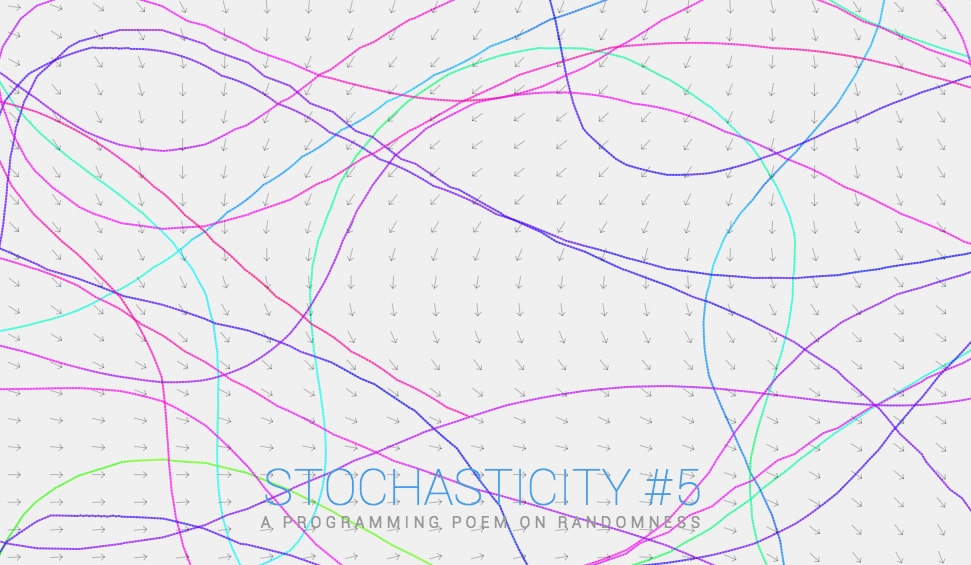
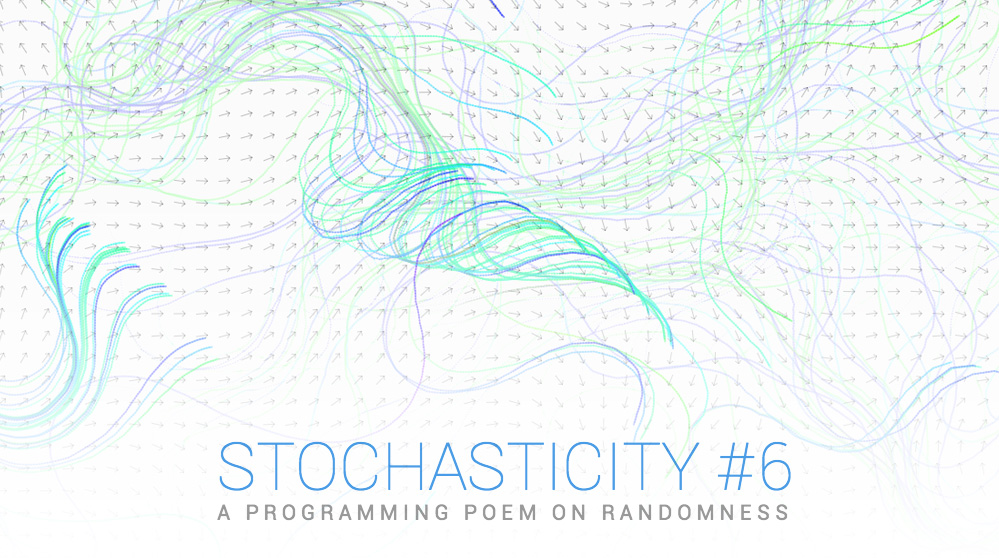
Wrap up for production

diff --git a/index.html b/index.html
@@ -1,7 +1,7 @@
 <!DOCTYPE html>
 <html>
 	<head>
-		<title>Stochasticity #5 - A programming poem on randomness</title>
+		<title>Stochasticity #6 - A programming poem on randomness</title>
 
 		<link href='http://fonts.googleapis.com/css?family=Roboto:400,500,700,300,100' rel='stylesheet' type='text/css' />
 		<link href='style.css' rel='stylesheet' type='text/css' />
@@ -26,10 +26,10 @@
 			<canvas id="vectors"></canvas>
 			<canvas id="colors"></canvas>
 			<div class='info'>
-				<a href='../stochasticity-4/'  title="Prev" class='arrow-prev'>Previous</a>
-				<h1>Stochasticity #5</h1>
+				<a href='../stochasticity-5/'  title="Prev" class='arrow-prev'>Previous</a>
+				<h1>Stochasticity #6</h1>
 				<p>A programming poem on randomness</p>
-				<a href='../stochasticity-6/' style='display:none;' title="Next" class='arrow-next'>Next</a>
+				<a href='../stochasticity-7/' style='display:none;' title="Next" class='arrow-next'>Next</a>
 			</div>
 			<footer class='credits'>
 				Designed and developed by <a href='http://gregtatum.com/'>Greg Tatum</a>.

diff --git a/script.js b/script.js
@@ -22,8 +22,8 @@ var TwoScene = function() {
 	
 	this.addStats();
 	this.vectorFlow = new VectorFlow( this, this.contextVectors );
-	//this.addWalkers( 125 );
-	this.addWalkers( 1 );
+	this.addWalkers( 125 );
+	//this.addWalkers( 1 );
 	
 	
 	this.loop();
@@ -126,8 +126,8 @@ TwoScene.prototype = {
 		
 		this.drawWalkers();
 		
-		//this.contextColors.fillStyle = this.rgbToFillStyle(245, 245, 245, 0.01);
-		//this.contextColors.fillRect(0,0,this.width, this.height);
+		this.contextColors.fillStyle = this.rgbToFillStyle(245, 245, 245, 0.01);
+		this.contextColors.fillRect(0,0,this.width, this.height);
 		
 		//Vectors
 		this.contextVectors.clearRect(0,0,this.width, this.height);
@@ -432,7 +432,7 @@ VectorFlow.prototype = {
  		i = Math.floor( x / cellSize.x );
 		j = Math.floor( y / cellSize.y );
 		
-		if(i < 0 || i > this.grid.width - 1 || j < 0 || i > this.grid.height) console.warn( "Error!" );
+		//if(i < 0 || i > this.grid.width - 1 || j < 0 || i > this.grid.height) console.warn( "Error!" );
 		
 		i = Math.max(i, 0);
 		j = Math.max(j, 0);
